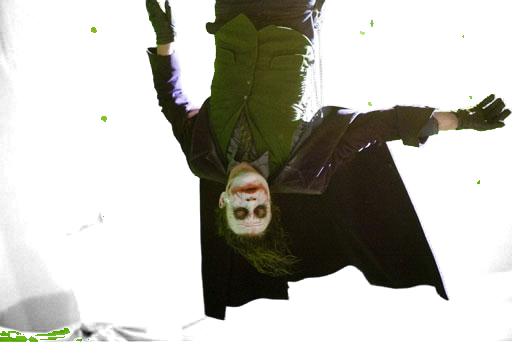
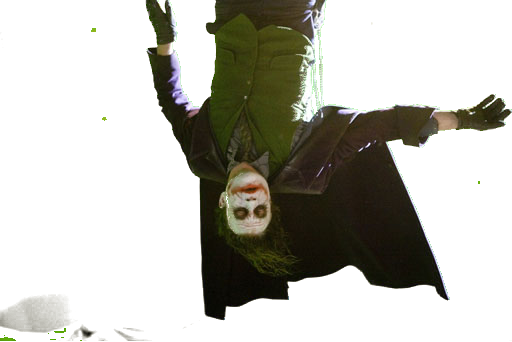
Added second tutorial

diff --git a/tutorial3/tutorial3.php b/tutorial3/tutorial3.php
@@ -2,35 +2,35 @@
 
 /**
  * @engine qb
- * @param float32[][][4]	$image
+ * @param float32[][][4]    $image
+ * @param float32           $strength
  * @return void
  *
  * @local uint32			$(x|y|width|height)
  * @local float32[y,i,q,a]	$pixel
  * @local float32[4][4]		$(m1|m2)
  */
-function green_screen(&$image) {
-	$m1 = array(
-		array(0.299,  0.596,  0.212, 0.000),
-		array(0.587, -0.275, -0.523, 0.000),
-		array(0.114, -0.321,  0.311, 0.000),
-		array(0.000,  0.000,  0.000, 1.000),
-	);
-	$m2 = inverse($m1);
+function green_screen(&$image, $strength = 4) {
 	$height = count($image);
 	$width = count($image[0]);
+	$m1 = array(
+		array(0.299,    0.587,     0.114,     0.0),
+		array(0.595716, -0.274453, -0.321263, 0.0),
+		array(0.211456, -0.522591, 0.31135,   0.0),
+		array(0.0,      0.0,       0.0,       1.0),
+	);
 	$image = mv_mult($m1, $image);
 	for($y = 0; $y < $height; $y++) {
 		for($x = 0; $x < $width; $x++) {
 			$pixel = $image[$y][$x];
-			if($pixel->i < 0 && $pixel->q < 0 && $pixel->y > 0.05) {
-				$pixel->a = 1.0 - hypot($pixel->i, $pixel->q) * $pixel->y * 3;
+			if($pixel->i < 0 && $pixel->q < 0 && $pixel->y > 0.01) {
+				$pixel->a = 1.0 - hypot($pixel->i, $pixel->q) * $pixel->y * $strength;
 				$pixel->i = $pixel->q = 0;
-
 			}
 			$image[$y][$x] = $pixel;
 		}
 	}
+	$m2 = inverse($m1);
 	$image = mv_mult($m2, $image);
 }
 
@@ -38,7 +38,6 @@ qb_compile();
 
 chdir(dirname(__FILE__));
 $img = imagecreatefrompng("input.png");
-//$img = imagecreatefromjpeg("joker_input.jpg");
 green_screen($img);
 imagesavealpha($img, true);
 imagepng($img, "output.png");

diff --git a/tutorial2/tutorial2.php b/tutorial2/tutorial2.php
@@ -1,0 +1,35 @@
+<?php
+
+/**
+ * @engine qb
+ * @param float32[][][4]	$image
+ * @return void
+ *
+ * @local uint32			$(x|y|width|height)
+ * @local float32[r,g,b,a]	$pixel
+ */
+function green_screen(&$image) {
+	$height = count($image);
+	$width = count($image[0]);
+	for($y = 0; $y < $height; $y++) {
+		for($x = 0; $x < $width; $x++) {
+			$pixel = $image[$y][$x];
+//			if($pixel[1] >= 0.8 && $pixel[0] < 0.2 && $pixel[2] < 0.2) {
+			if($pixel->g >= 0.8 && $pixel->r < 0.2 && $pixel->b < 0.2) {
+				$pixel->a = 0.0;
+			}
+			$image[$y][$x] = $pixel;
+		}
+	}
+}
+
+qb_compile();
+
+chdir(dirname(__FILE__));
+$img = imagecreatefrompng("input.png");
+green_screen($img);
+imagesavealpha($img, true);
+imagepng($img, "output.png");
+echo "Done";
+
+?>
